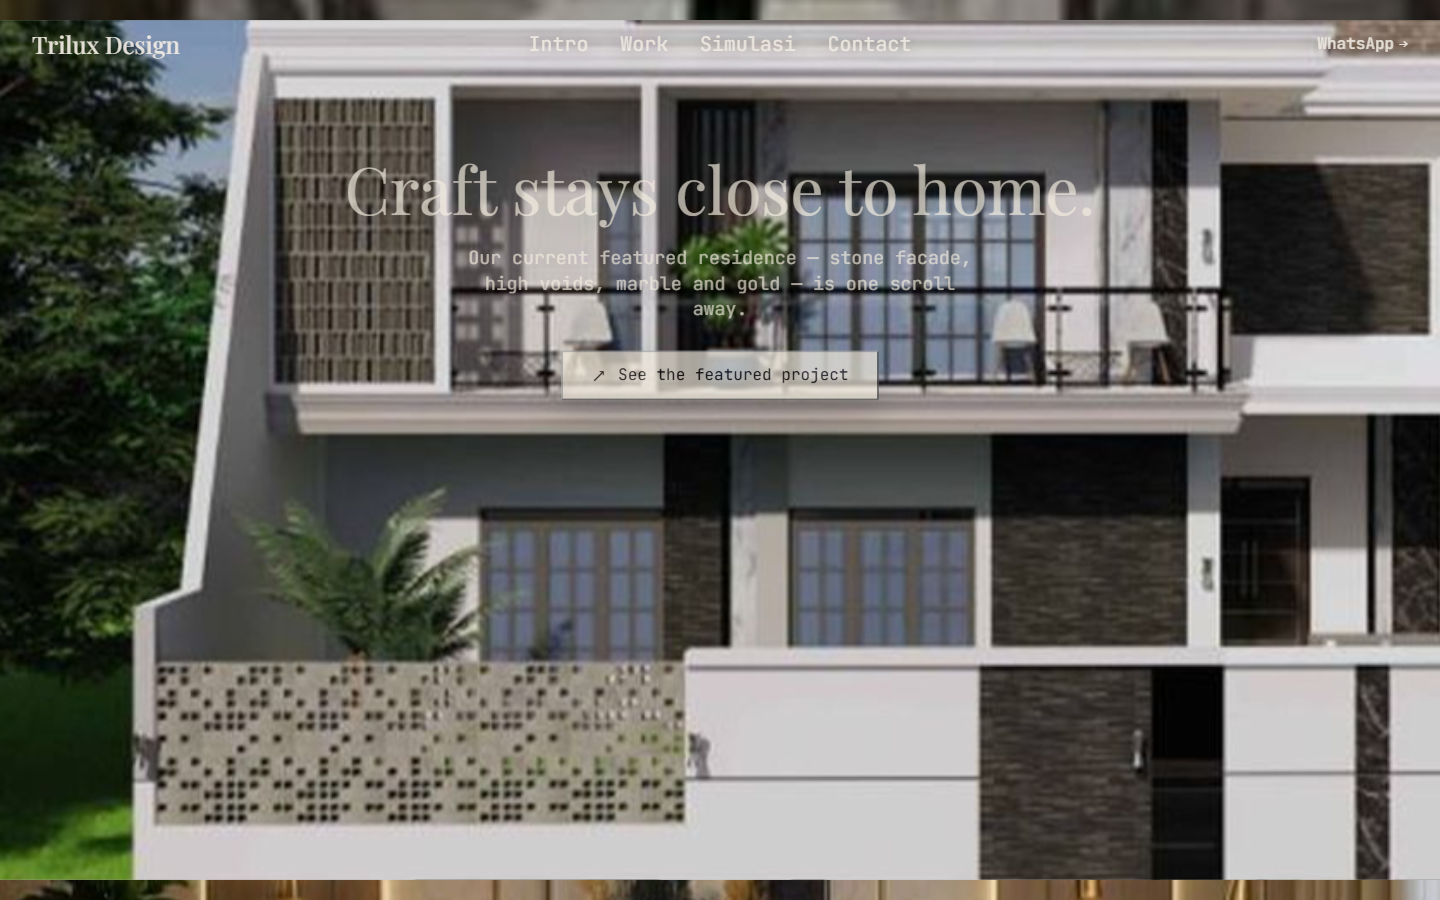
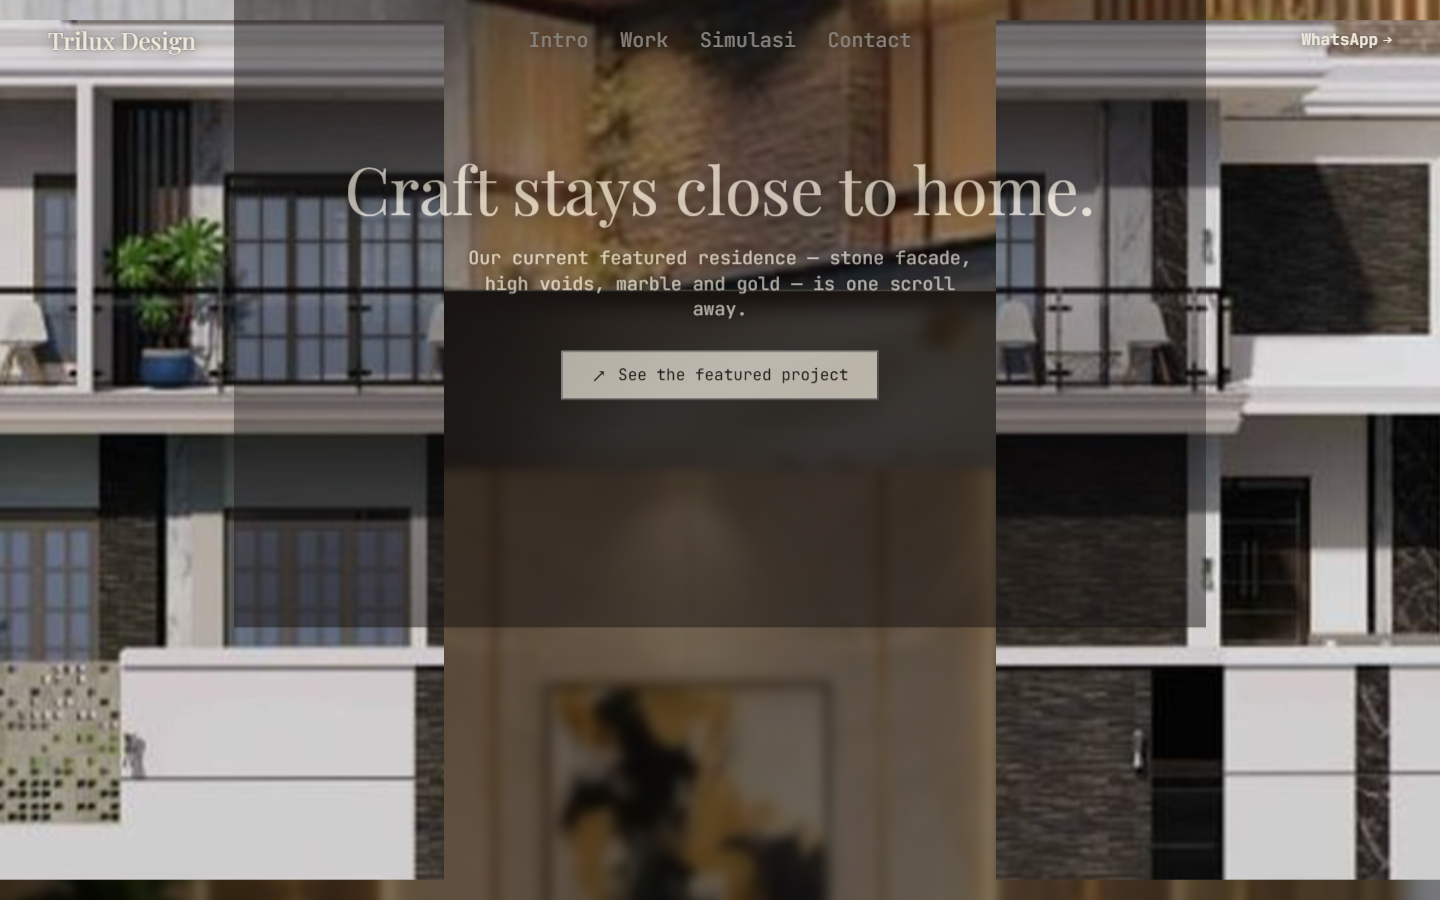
fix: cinema visual pass — kill bone band, opaque-layer collisions, contrast
- section.cinema-scroll: zero block padding (style.css 160px rule bled a
  bone band above the sticky stage and offset all choreography)
- back-four (mission.jpg) hidden: opaque photo + blend-screen = ghost
  double-exposure; reference used transparent PNGs
- splitframes: clip-path halves of one photo (was two full photos stacked);
  fade out as the slider enters so cards/buttons stay visible
- bridge-img: thumb-2 (325px) -> contact.jpg (1000px) — no more blur;
  frame-two: mission.jpg (dark interior suits cream text)
- panel-scrim: deterministic linear gradient halo behind every text panel
  (radial centering proved unreliable — heading never darkened)
- bazaar backdrop: brightness keyed to frame3.enter so it stays dark
  through the slider stage (bright photo ate cream card contrast)
- sight-nav buttons: dark circles + cream arrows (bone-on-bone invisible)
- header: adaptive padding, stronger scrim, logo/nav text-shadows
- mobile: tighter header padding, 20px control inset, smaller logo/nav
- shots/ recaptured; cache-buster v=2

diff --git a/assets/css/cinema.css b/assets/css/cinema.css
@@ -4,9 +4,12 @@
    Depends on tokens in style.css (Playfair, ink/bone/brass).
    ========================================================================== */
 
-.cinema-scroll {
+section.cinema-scroll {
   position: relative;
   height: calc(100vh + 3700px);
+  /* style.css gives every section 160px block padding — that painted a bone
+     band above/below the sticky stage and offset the scroll choreography */
+  padding-block: 0;
 }
 
 .stage {
@@ -16,7 +19,7 @@
   min-height: 620px;
   overflow: hidden;
   isolation: isolate;
-  background: var(--bone-200);
+  background: var(--ink-900);
 }
 
 .world,
@@ -39,10 +42,10 @@
 .sky-scrim {
   position: absolute;
   inset: 0 0 auto 0;
-  height: 190px;
+  height: 260px;
   z-index: 1;
   pointer-events: none;
-  background: linear-gradient(180deg, rgba(20, 16, 16, 0.5), rgba(20, 16, 16, 0));
+  background: linear-gradient(180deg, rgba(20, 16, 16, 0.72), rgba(20, 16, 16, 0.28) 55%, rgba(20, 16, 16, 0));
 }
 
 /* ---------- header ---------- */
@@ -55,8 +58,8 @@
   grid-template-columns: minmax(260px, 1fr) auto minmax(260px, 1fr);
   align-items: center;
   gap: 32px;
-  padding: 32px;
-  color: rgba(242, 237, 228, 0.86);
+  padding: 28px clamp(24px, 3.4vw, 48px);
+  color: var(--bone-100);
   pointer-events: auto;
 }
 .cinema-logo {
@@ -65,9 +68,11 @@
   font-size: 24px;
   line-height: 1;
   font-weight: 500;
-  color: rgba(242, 237, 228, 0.92);
+  color: var(--bone-100);
   text-decoration: none;
   white-space: nowrap;
+  /* logo is a thin serif — without a shadow it dissolves on bright photos */
+  text-shadow: 0 1px 14px rgba(20, 16, 16, 0.65), 0 0 2px rgba(20, 16, 16, 0.5);
 }
 .cinema-nav {
   display: flex;
@@ -76,10 +81,10 @@
 }
 .cinema-nav a,
 .lang-switcher {
-  color: rgba(242, 237, 228, 0.86);
+  color: var(--bone-100);
   font-weight: 700;
   line-height: 1;
-  text-shadow: 0 2px 16px rgba(20, 16, 16, 0.35);
+  text-shadow: 0 1px 12px rgba(20, 16, 16, 0.6);
 }
 .cinema-nav a { font-size: 20px; font-weight: 400; }
 .lang-switcher {
@@ -152,6 +157,9 @@
   transform: translate3d(-50%, var(--bazaar-y), 0) scale(0.86);
 }
 .back-four {
+  /* mission.jpg is an opaque photo — the reference used a transparent PNG
+     here, so blend-screen just painted a ghost double-exposure. Hidden. */
+  display: none;
   z-index: 1;
   opacity: 0.72;
   mix-blend-mode: screen;
@@ -164,7 +172,9 @@
   right: 0;
   top: var(--sights-top);
   padding: 0;
-  z-index: 2;
+  /* must paint above .back-bazaar (z3) — the opaque bazaar photo otherwise
+     covers the cards (reference had a transparent PNG there) */
+  z-index: 4;
   opacity: 1;
   visibility: var(--sights-visibility);
   transform: translate3d(var(--sights-enter-x), var(--sights-y), 0) scale(var(--sights-scale));
@@ -285,10 +295,13 @@
   display: inline-flex;
   align-items: center;
   justify-content: center;
+  border: 1px solid rgba(239, 233, 220, 0.4);
   border-radius: 999px;
-  color: var(--ink-900);
-  background: rgba(239, 233, 220, 0.94);
-  box-shadow: 0 18px 36px rgba(0, 0, 0, 0.2);
+  /* dark on purpose: at rest these overlap the cream sight cards —
+     bone-on-bone was invisible */
+  color: var(--bone-100);
+  background: rgba(20, 16, 16, 0.82);
+  box-shadow: 0 18px 36px rgba(0, 0, 0, 0.3);
   cursor: pointer;
 }
 
@@ -306,7 +319,7 @@
   line-height: 0.78;
   text-align: center;
   letter-spacing: 0.02em;
-  text-shadow: none;
+  text-shadow: 0 4px 34px rgba(20, 16, 16, 0.55);
   transform: translate3d(-50%, var(--title-y), 0) scale(var(--title-scale));
   opacity: var(--title-opacity);
   will-change: transform, opacity;
@@ -327,6 +340,9 @@
   transform-origin: 50% 48%;
 }
 
+/* cover.jpg is an opaque photo, not a transparent cutout like the reference —
+   so each half is clipped to its own side; together they read as one image,
+   and the split animation pulls them apart into two real panels */
 .splitframe-img {
   left: 50%;
   bottom: -2vh;
@@ -336,12 +352,17 @@
   object-fit: cover;
   object-position: 50% 74%;
   pointer-events: none;
+  /* opaque photos (reference: transparent PNGs) — at full opacity they bury
+     the slider (z4) and nav buttons (z5), so they fade as the slider enters */
+  opacity: var(--split-fade, 1);
 }
 .splitframe-left {
+  clip-path: polygon(0 0, 50.2% 0, 50.2% 100%, 0 100%);
   transform: translate3d(var(--split-left-x), var(--split-left-y), 0) scale(var(--split-left-scale));
   transform-origin: 21% 52%;
 }
 .splitframe-right {
+  clip-path: polygon(49.8% 0, 100% 0, 100% 100%, 49.8% 100%);
   transform: translate3d(var(--split-right-x), var(--split-right-y), 0) scale(var(--split-right-scale));
   transform-origin: 79% 52%;
 }
@@ -369,9 +390,30 @@
   opacity: var(--shade-opacity);
   background: linear-gradient(
     180deg,
-    rgba(192, 138, 62, var(--shade-top-alpha)) 0%,
-    rgba(192, 138, 62, var(--shade-mid-alpha)) 48%,
+    rgba(20, 16, 16, var(--shade-top-alpha)) 0%,
+    rgba(20, 16, 16, var(--shade-mid-alpha)) 48%,
     rgba(20, 16, 16, var(--shade-bottom-alpha)) 100%
+  );
+}
+
+/* soft dark halo behind cream text — cream on a bright photo is unreadable
+   without it (frame 2600: bone interior + cream text = collision).
+   Must cover the WHOLE panel incl. the heading at the top, not just the middle. */
+.panel-scrim {
+  position: absolute;
+  inset: -12% -14%;
+  z-index: -1;
+  pointer-events: none;
+  /* deterministic vertical falloff: dark band over the heading (top), lighter
+     mid, dark again over the button (bottom) — radial centering proved
+     unreliable here (heading region never darkened) */
+  background: linear-gradient(
+    180deg,
+    rgba(20, 16, 16, 0.8) 0%,
+    rgba(20, 16, 16, 0.62) 26%,
+    rgba(20, 16, 16, 0.4) 52%,
+    rgba(20, 16, 16, 0.55) 76%,
+    rgba(20, 16, 16, 0.72) 100%
   );
 }
 
@@ -434,7 +476,7 @@
   font-size: 4.75rem;
   font-weight: 400;
   line-height: 0.95;
-  text-shadow: 0 16px 38px rgba(20, 16, 16, 0.45);
+  text-shadow: 0 2px 22px rgba(20, 16, 16, 0.85), 0 16px 38px rgba(20, 16, 16, 0.45);
 }
 .story-panel p {
   width: min(520px, 100%);
@@ -443,7 +485,7 @@
   font-size: 1.14rem;
   font-weight: 400;
   line-height: 1.4;
-  text-shadow: 0 2px 18px rgba(20, 16, 16, 0.5);
+  text-shadow: 0 1px 10px rgba(20, 16, 16, 0.75), 0 2px 18px rgba(20, 16, 16, 0.5);
 }
 .story-panel-bridge {
   top: 60%;
@@ -513,7 +555,12 @@
 
 @media (max-width: 640px) {
   .stage { min-height: 640px; }
-  .site-header { grid-template-columns: 1fr auto; gap: 18px; padding: 24px; }
+  .site-header {
+    grid-template-columns: 1fr auto;
+    gap: 14px;
+    padding: 18px 20px;
+  }
+  .cinema-logo { font-size: 20px; }
   .cinema-nav {
     grid-column: 1 / -1;
     grid-row: 2;
@@ -523,6 +570,7 @@
     scrollbar-width: none;
   }
   .cinema-nav::-webkit-scrollbar { display: none; }
+  .cinema-nav a { font-size: 16px; }
   .hero-title { top: 16vh; font-size: 4.5rem; }
   .bridge-img { bottom: 2vh; width: 190vw; }
   .frame-two-img { width: 176vw; }
@@ -538,7 +586,7 @@
   .sights-slider { padding: 0; }
   .sights-track { gap: 12px; transform: translate3d(calc(var(--sights-shift) - 18vw), 0, 0); }
   .sight-card { flex-basis: min(82vw, 330px); height: 220px; padding: 24px; border-radius: 2px; }
-  .sights-controls { top: calc(var(--sights-screen-top) + 236px); }
+  .sights-controls { left: 20px; top: calc(var(--sights-screen-top) + 236px); }
   .sight-card h3 { max-width: 78%; }
   .sight-card p { max-width: 100%; margin-top: 10px; }
   .sight-kicker { margin-bottom: 56px; }

diff --git a/index.html b/index.html
@@ -17,7 +17,7 @@
 <link rel="preload" href="assets/fonts/playfair-display-400.woff2" as="font" type="font/woff2" crossorigin>
 <link rel="preload" href="assets/img/hero.jpg" as="image">
 <link rel="stylesheet" href="assets/css/style.css?v=2">
-<link rel="stylesheet" href="assets/css/cinema.css?v=1">
+<link rel="stylesheet" href="assets/css/cinema.css?v=2">
 <script type="application/ld+json">
 {
   "@context": "https://schema.org",
@@ -97,12 +97,13 @@
         <h1 class="hero-title">TRILUX</h1>
         <img class="scene-img splitframe-img splitframe-left" src="assets/img/cover.jpg" alt="">
         <img class="scene-img splitframe-img splitframe-right" src="assets/img/cover.jpg" alt="">
-        <img class="scene-img bridge-img" src="assets/img/thumb-2.jpg" alt="">
-        <img class="scene-img frame-two-img" src="assets/img/contact.jpg" alt="">
+        <img class="scene-img bridge-img" src="assets/img/contact.jpg" alt="">
+        <img class="scene-img frame-two-img" src="assets/img/mission.jpg" alt="">
         <div class="shade"></div>
       </div>
 
       <section class="intro-copy" aria-label="Trilux overview">
+        <div class="panel-scrim" aria-hidden="true"></div>
         <p>An architecture and interior studio shaping calm, precise spaces — from the first sketch to the final brass fitting.</p>
         <div class="hero-tags" aria-label="Trilux highlights">
           <span>Interior</span>
@@ -112,6 +113,7 @@
       </section>
 
       <section class="story-panel story-panel-bridge" aria-label="Studio approach">
+        <div class="panel-scrim" aria-hidden="true"></div>
         <h2>Every project starts with structure.</h2>
         <p>We pair architectural rigour with warm materiality — concrete discipline softened by timber, brass, and natural light.</p>
         <dl class="facts">
@@ -127,6 +129,7 @@
       </section>
 
       <section class="story-panel story-panel-bazaar" aria-label="Featured project teaser">
+        <div class="panel-scrim" aria-hidden="true"></div>
         <h2>Craft stays close to home.</h2>
         <p>Our current featured residence — stone facade, high voids, marble and gold — is one scroll away.</p>
         <button class="note-button" type="button">

diff --git a/assets/js/cinema.js b/assets/js/cinema.js
@@ -90,8 +90,10 @@
     setVar("--bazaar-y", `${20 - progress * 8}vh`);
     setVar("--blur-px", `${blurActive * 14}px`);
     setVar("--back-brightness", String(1 - blurActive * 0.255));
-    setVar("--bazaar-blur-px", `${frame2.active * 14}px`);
-    setVar("--bazaar-brightness", String(1 - frame2.active * 0.255 - frame3.active * 0.06));
+    setVar("--bazaar-blur-px", `${frame2.active * 14 + frame3.enter * 8}px`);
+    // frame3.ENTER (not .active) so the backdrop stays dark through the
+    // slider stage — bright photo behind cream cards kills card contrast
+    setVar("--bazaar-brightness", String(1 - frame2.active * 0.255 - frame3.enter * 0.62));
     setVar("--bazaar-saturation", String(1 + frame3.active * 0.18));
     setVar("--shade-opacity", "1");
     setVar("--shade-z", frame2.active > 0.02 ? "2" : "0");
@@ -129,6 +131,7 @@
     setVar("--panel3-y", `calc(-50% + ${-frame3.exit * 86 + (1 - frame3.enter) * 58}px)`);
 
     setVar("--sights-opacity", String(sightsEnter));
+    setVar("--split-fade", String(1 - sightsEnter));
     setVar("--sights-controls-opacity", String(sightsControlsEnter));
     if (controls) controls.classList.toggle("is-ready", sightsControlsEnter > 0.98);
     setVar("--sights-visibility", sightsEnter > 0.01 ? "visible" : "hidden");
